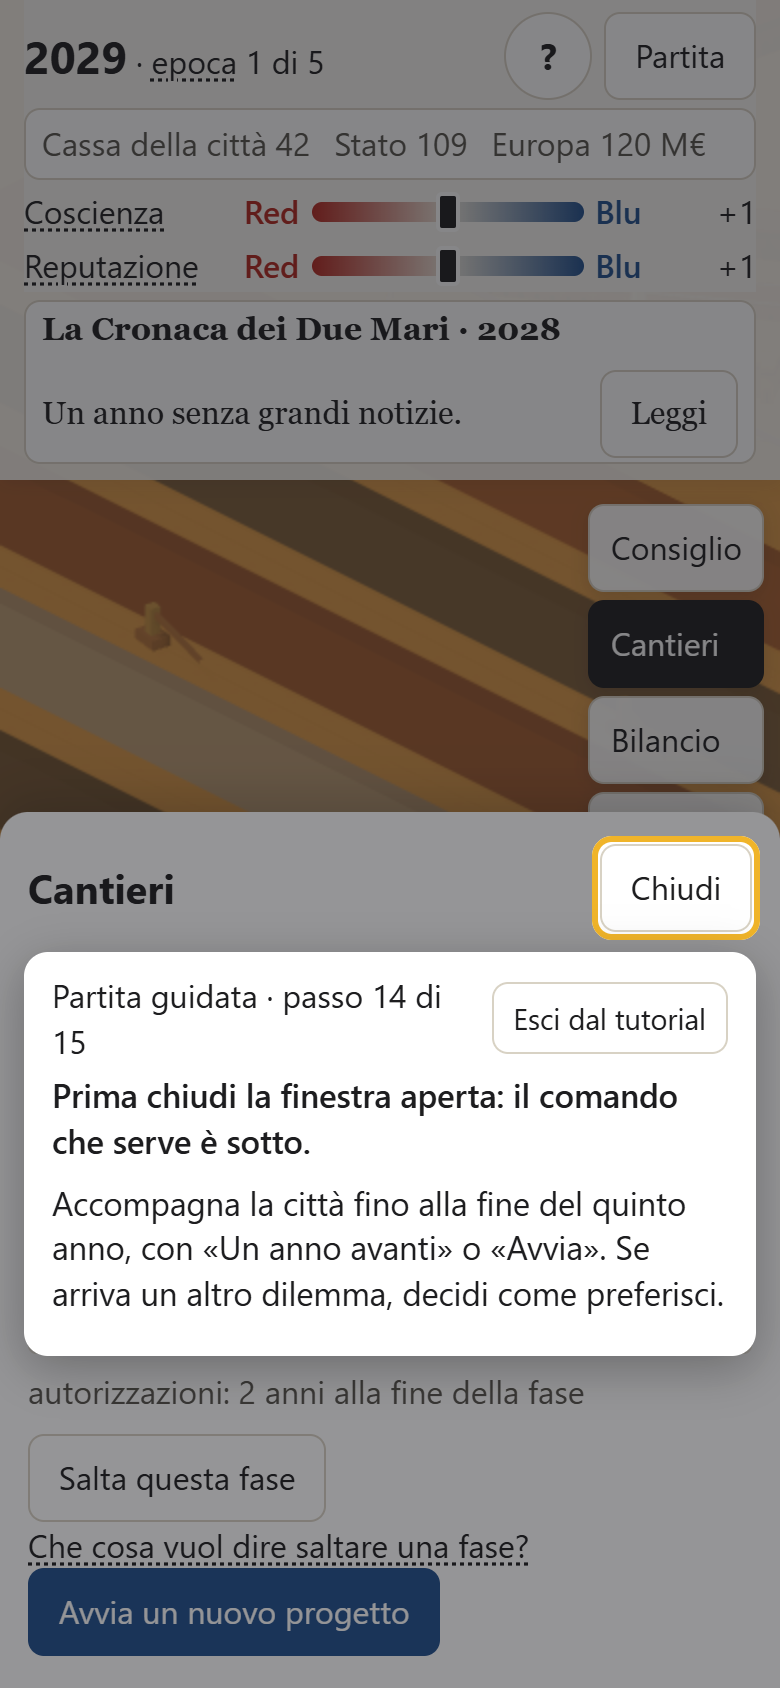
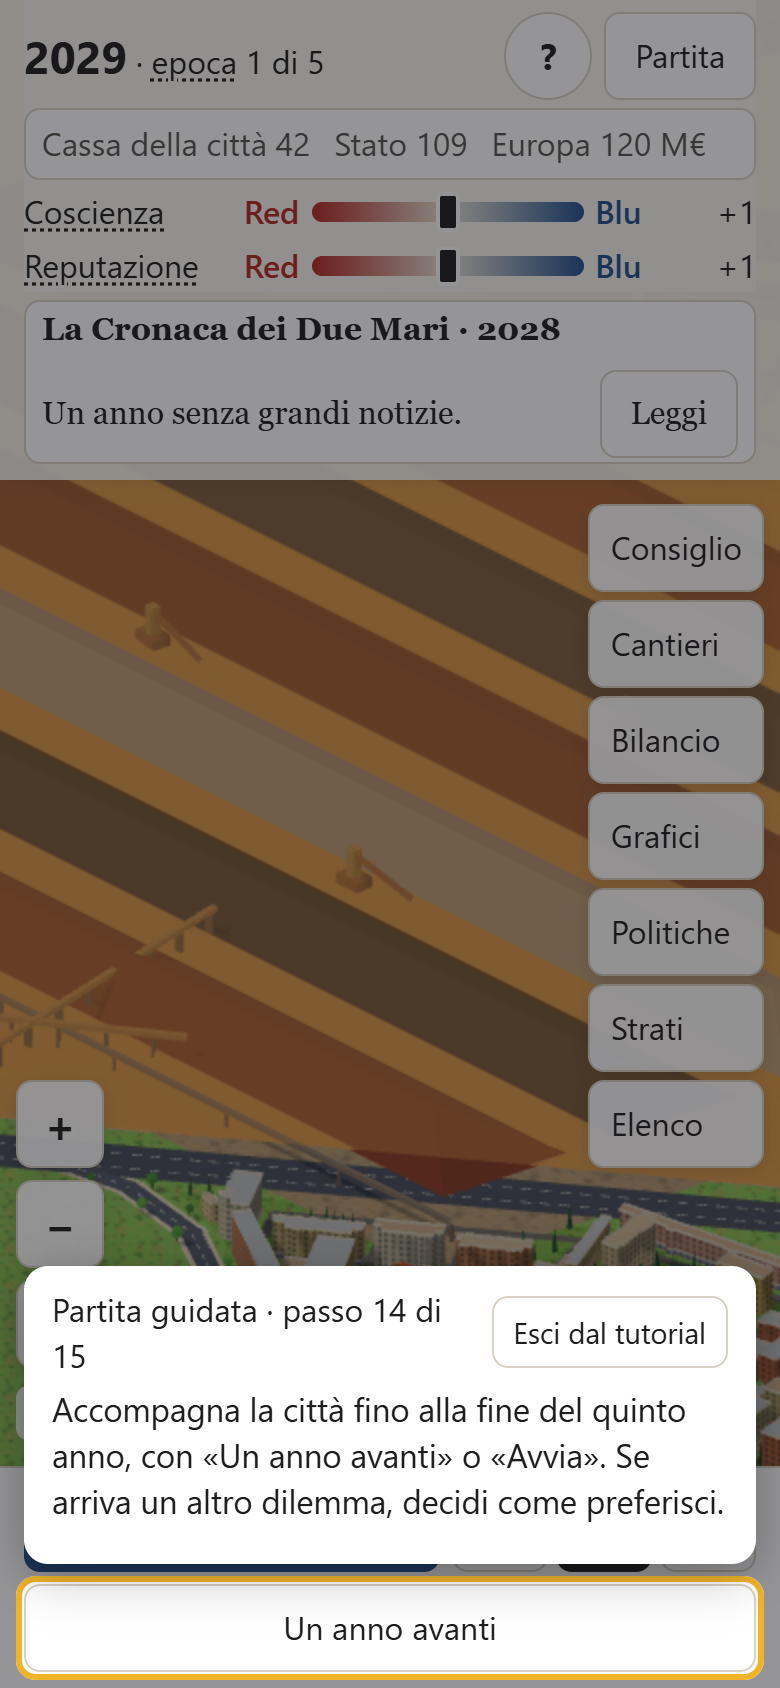
T16: passo 13 corretto da Michele, avanza solo chiudendo la finestra «Cantieri»
Attesa «pannello-visto»: con la finestra aperta l'evidenza passa su «Chiudi», il
fumetto aggiunge «Quando hai visto, chiudi la finestra.» e sta fuori dalla
finestra, senza coprire le fasi. Al passo 14 la finestra è già chiusa. Prova
unitaria e controlli nel browser; schermate 13, 13b e 14 rifatte.

diff --git a/apps/game/src/tutorial.tsx b/apps/game/src/tutorial.tsx
@@ -74,6 +74,8 @@ export interface Contesto {
   tip?: string | null;
   /** I termini di cui, durante questo passo, si è aperta la spiegazione. */
   tipVisti?: ReadonlySet<string>;
+  /** Le finestre (pannelli) aperte durante questo passo. */
+  pannelliVisti?: ReadonlySet<string>;
 }
 
 /** Il comando con questo data-testid, se c'è nella pagina. */
@@ -105,6 +107,9 @@ export function fatto(passo: Passo, c: Contesto): boolean {
     case 'spiegazione-letta':
       // Aperta e poi chiusa con «Ok»: così ai passi dopo la spiegazione non resta sullo schermo.
       return (c.tipVisti?.has(a.termine) ?? false) && (c.tip ?? null) === null;
+    case 'pannello-visto':
+      // Aperta e poi chiusa, come il Consiglio al passo 4: il giocatore guarda la finestra quanto vuole.
+      return (c.pannelliVisti?.has(a.pannello) ?? false) && c.panel === null;
     case 'fine':
       return false;
   }
@@ -169,6 +174,14 @@ export function SceltaPartita({ onScegli }: { onScegli: (s: 'guidata' | 'libera'
 }
 
 const MARGINE = 10;
+
+/** È aperto ciò che il passo chiede di guardare e poi chiudere (una spiegazione, una finestra)? */
+function chiusuraDelPasso(passo: Passo, c: Contesto): boolean {
+  const a = passo.attesa;
+  if (a.tipo === 'spiegazione-letta') return (c.tip ?? null) === a.termine;
+  if (a.tipo === 'pannello-visto') return c.panel === a.pannello;
+  return false;
+}
 /** Pulsanti di chiusura: se il passo deve evidenziare uno di questi al posto del suo comando, lo dice. */
 const CHIUSURE = new Set(['finestra-chiudi', 'spiegazione-chiudi', 'continua']);
 
@@ -178,16 +191,17 @@ export function Tutorial({ indice, contesto, onAvanti, onEsci, onFine }: { indic
   const ultimo = indice === tutorial.passi.length - 1;
   const fumetto = useRef<HTMLDivElement>(null);
   const [rect, setRect] = useState<{ x: number; y: number; w: number; h: number; testid: string } | null>(null);
-  const [pos, setPos] = useState<{ top: number; maxHeight: number } | null>(null);
+  const [pos, setPos] = useState<{ top: number; maxHeight: number; left?: number; width?: number } | null>(null);
   /** Posto per il fumetto dentro una finestra (il dilemma): lì il fumetto scorre con il contenuto e non copre nulla. */
   const [spazio, setSpazio] = useState<HTMLElement | null>(null);
   const tip = useTipAperto();
   // Le spiegazioni aperte durante questo passo (si ricomincia a ogni passo).
-  const visti = useRef<{ indice: number; termini: Set<string> }>({ indice, termini: new Set() });
-  if (visti.current.indice !== indice) visti.current = { indice, termini: new Set() };
+  const visti = useRef<{ indice: number; termini: Set<string>; pannelli: Set<string> }>({ indice, termini: new Set(), pannelli: new Set() });
+  if (visti.current.indice !== indice) visti.current = { indice, termini: new Set(), pannelli: new Set() };
   if (tip !== null) visti.current.termini.add(tip);
+  if (contesto.panel !== null) visti.current.pannelli.add(contesto.panel);
   const contestoRef = useRef<Contesto>(contesto);
-  contestoRef.current = { ...contesto, tip, tipVisti: visti.current.termini };
+  contestoRef.current = { ...contesto, tip, tipVisti: visti.current.termini, pannelliVisti: visti.current.pannelli };
   const fuoco = useRef<HTMLElement | null>(null);
 
   // Il passo va avanti quando l'azione è fatta: si controlla a ogni cambio e, per ciò che sta solo nella pagina, ogni 300 ms.
@@ -209,16 +223,34 @@ export function Tutorial({ indice, contesto, onAvanti, onEsci, onFine }: { indic
     const posto = b.el.closest('[data-testid="dilemma"]')?.querySelector<HTMLElement>('[data-testid="spazio-tutorial"]') ?? null;
     setSpazio(posto);
     const r = b.el.getBoundingClientRect();
+    const poni = (p: { top: number; maxHeight: number; left?: number; width?: number }) =>
+      setPos((prima) => (prima !== null && Math.abs(prima.top - p.top) < 0.5 && Math.abs(prima.maxHeight - p.maxHeight) < 0.5 && prima.left === p.left && prima.width === p.width ? prima : p));
     setRect((prima) => (prima !== null && prima.testid === b.testid && Math.abs(prima.x - r.left) < 0.5 && Math.abs(prima.y - r.top) < 0.5 && Math.abs(prima.w - r.width) < 0.5 && Math.abs(prima.h - r.height) < 0.5 ? prima : { x: r.left, y: r.top, w: r.width, h: r.height, testid: b.testid }));
+    const pieno = fumetto.current?.scrollHeight ?? 120;
+    // La finestra da guardare (passo «pannello-visto», finestra aperta): il fumetto sta fuori, sopra o sotto, o accanto sullo schermo largo.
+    const finestra = passo.attesa.tipo === 'pannello-visto' && chiusuraDelPasso(passo, contestoRef.current) ? b.el.closest<HTMLElement>('.map-window') : null;
+    if (finestra !== null) {
+      const w = finestra.getBoundingClientRect();
+      const libSopra = w.top - MARGINE * 2;
+      const libSotto = window.innerHeight - w.bottom - MARGINE * 2;
+      const libSinistra = w.left - MARGINE * 2;
+      if (pieno > Math.max(libSopra, libSotto) && libSinistra >= 280) {
+        const top = Math.max(MARGINE, w.top);
+        poni({ top, maxHeight: window.innerHeight - top - MARGINE, left: MARGINE, width: Math.min(440, libSinistra) });
+      } else if (libSopra >= libSotto) {
+        const alto = Math.min(pieno, libSopra);
+        poni({ top: Math.max(MARGINE, w.top - MARGINE - alto), maxHeight: libSopra });
+      } else poni({ top: w.bottom + MARGINE, maxHeight: libSotto });
+    } else {
     const sopra = r.top - MARGINE * 2;
     const sotto = window.innerHeight - r.bottom - MARGINE * 2;
-    const pieno = fumetto.current?.scrollHeight ?? 120;
     // Sotto il comando se il fumetto ci sta per intero (di solito lì c'è spazio libero), poi sopra, poi dalla parte più larga.
     const giu = pieno <= sotto || (pieno > sopra && sotto >= sopra);
     const alto = Math.min(pieno, giu ? sotto : sopra);
     const top = giu ? r.bottom + MARGINE : Math.max(MARGINE, r.top - MARGINE - alto);
     const massimo = giu ? sotto : sopra;
-    setPos((prima) => (prima !== null && Math.abs(prima.top - top) < 0.5 && Math.abs(prima.maxHeight - massimo) < 0.5 ? prima : { top, maxHeight: massimo }));
+    poni({ top, maxHeight: massimo });
+    }
     // Il fuoco da tastiera va sul comando, una volta per comando.
     if (fuoco.current !== b.el) {
       fuoco.current = b.el;
@@ -240,6 +272,8 @@ export function Tutorial({ indice, contesto, onAvanti, onEsci, onFine }: { indic
     };
   }, [controlla, misura]);
 
+  // Il comando evidenziato è la chiusura di ciò che il passo chiede di guardare: il fumetto dice di chiudere.
+  const chiude = rect !== null && chiusuraDelPasso(passo, contestoRef.current) && rect.testid === (passo.attesa.tipo === 'spiegazione-letta' ? 'spiegazione-chiudi' : 'finestra-chiudi');
   const contenuto = (
     <>
       <div className="tutorial-testa">
@@ -250,13 +284,13 @@ export function Tutorial({ indice, contesto, onAvanti, onEsci, onFine }: { indic
           Esci dal tutorial
         </button>
       </div>
-      {rect !== null && CHIUSURE.has(rect.testid) && passo.evidenzia[0] !== rect.testid && (
+      {rect !== null && CHIUSURE.has(rect.testid) && !chiude && (passo.evidenzia[0] !== rect.testid || 'poi' in passo.attesa) && (
         <p className="tutorial-testo tutorial-prima" data-testid="tutorial-prima-chiudi">
           {tutorial.primaChiudi}
         </p>
       )}
       <p className="tutorial-testo">{passo.testo}</p>
-      {passo.attesa.tipo === 'spiegazione-letta' && rect?.testid === 'spiegazione-chiudi' && (
+      {chiude && 'poi' in passo.attesa && (
         <p className="tutorial-testo" data-testid="tutorial-poi">
           {passo.attesa.poi}
         </p>
@@ -299,7 +333,7 @@ export function Tutorial({ indice, contesto, onAvanti, onEsci, onFine }: { indic
             spazio,
           )
         : (
-          <div {...attributi} className="tutorial-fumetto" style={pos === null ? { bottom: MARGINE } : { top: pos.top, maxHeight: pos.maxHeight }}>
+          <div {...attributi} className="tutorial-fumetto" style={pos === null ? { bottom: MARGINE } : pos.left !== undefined ? { top: pos.top, maxHeight: pos.maxHeight, left: pos.left, right: 'auto', width: pos.width, margin: 0 } : { top: pos.top, maxHeight: pos.maxHeight }}>
             {contenuto}
           </div>
         )}

diff --git a/apps/game/scripts/verifica.ts b/apps/game/scripts/verifica.ts
@@ -1442,10 +1442,12 @@ async function tutorialDaCopione(browser: Browser, width: number, mappa: '3d' | 
       visti.push(p.id);
       // Dopo il passo «coscienza» la sua spiegazione è chiusa: non resta sopra i comandi dei passi dopo.
       if (visti.includes('coscienza') && p.id !== 'coscienza' && (await visible(page, 'spiegazione'))) fail(`${dove}, passo «${p.id}»: la spiegazione della Coscienza è rimasta aperta`);
+      // Al passo 14 la finestra «Cantieri» è già chiusa: niente «Prima chiudi la finestra aperta».
+      if (p.id === 'quinto-anno' && ((await visible(page, 'finestra-cantieri')) || (await visible(page, 'tutorial-prima-chiudi')))) fail(`${dove}, passo «quinto-anno»: la finestra «Cantieri» è ancora aperta e il fumetto chiede di chiuderla`);
       await controllaPasso(page, `${dove}, passo «${p.id}»`, p.bersaglio);
       if (width === 390 && mappa === '3d') {
         await page.waitForTimeout(500);
-        await page.screenshot({ path: join(shotsDir, `t16-passo-${String(visti.filter((x) => x !== 'coscienza-ok').length).padStart(2, '0')}-${p.id}-390.png`) });
+        await page.screenshot({ path: join(shotsDir, `t16-passo-${String(visti.filter((x) => x !== 'coscienza-ok' && x !== 'cantieri-chiudi').length).padStart(2, '0')}-${p.id}-390.png`) });
       }
     }
     else if (p.id === 'coscienza' && p.bersaglio === 'spiegazione-chiudi' && !visti.includes('coscienza-ok')) {
@@ -1456,6 +1458,30 @@ async function tutorialDaCopione(browser: Browser, width: number, mappa: '3d' | 
       if (width === 390 && mappa === '3d') {
         await page.waitForTimeout(500);
         await page.screenshot({ path: join(shotsDir, 't16-passo-12b-coscienza-ok-390.png') });
+      }
+    }
+    else if (p.id === 'cantieri' && p.bersaglio === 'finestra-chiudi' && !visti.includes('cantieri-chiudi')) {
+      // Finestra «Cantieri» aperta: l'evidenza passa su «Chiudi», il fumetto dice di chiudere e non copre le fasi.
+      visti.push('cantieri-chiudi');
+      await page.waitForTimeout(400);
+      await controllaPasso(page, `${dove}, passo «cantieri» con la finestra aperta`, p.bersaglio);
+      if (!(await visible(page, 'finestra-cantieri'))) fail(`${dove}, passo «cantieri»: «Chiudi» è evidenziato ma la finestra «Cantieri» non è aperta`);
+      if (!(await visible(page, 'tutorial-poi'))) fail(`${dove}, passo «cantieri»: con la finestra aperta il fumetto non dice di chiuderla`);
+      if (await visible(page, 'tutorial-prima-chiudi')) fail(`${dove}, passo «cantieri»: con la finestra «Cantieri» aperta il fumetto dice «Prima chiudi la finestra aperta»`);
+      const copre = await page.evaluate(() => {
+        const f = document.querySelector('[data-testid="tutorial"]')!.getBoundingClientRect();
+        const fasi = [...document.querySelectorAll('[data-testid="finestra-cantieri"] [data-testid="cantiere"] .phases')];
+        if (fasi.length === 0) return 'nessuna';
+        return fasi.some((el) => {
+          const q = el.getBoundingClientRect();
+          return !(q.right <= f.left || q.left >= f.right || q.bottom <= f.top || q.top >= f.bottom);
+        }) ? 'si' : 'no';
+      });
+      if (copre === 'nessuna') fail(`${dove}, passo «cantieri»: nella finestra non c'è l'elenco delle fasi`);
+      if (copre === 'si') fail(`${dove}, passo «cantieri»: il fumetto copre l'elenco delle fasi del cantiere`);
+      if (width === 390 && mappa === '3d') {
+        await page.waitForTimeout(500);
+        await page.screenshot({ path: join(shotsDir, 't16-passo-13b-cantieri-chiudi-390.png') });
       }
     }
     if (process.env['T16LOG'] === '1') console.log(`LOG ${width} ${mappa} passo ${p.id} bersaglio ${p.bersaglio}`);
@@ -1477,9 +1503,10 @@ async function tutorialDaCopione(browser: Browser, width: number, mappa: '3d' | 
   const attesi = loadContent().tutorial.passi.map((x) => x.id).filter((id) => !(mappa === 'schematica' && id === 'strato'));
   const mancanti = attesi.filter((id) => !visti.includes(id));
   if (!visti.includes('coscienza-ok')) fail(`${dove}: al passo «coscienza» la spiegazione aperta non porta l'evidenza su «Ok»`);
-  const ordine = visti.filter((id) => id !== 'coscienza-ok');
+  if (!visti.includes('cantieri-chiudi')) fail(`${dove}: al passo «cantieri» la finestra aperta non porta l'evidenza su «Chiudi»`);
+  const ordine = visti.filter((id) => id !== 'coscienza-ok' && id !== 'cantieri-chiudi');
   if (mancanti.length > 0 || ordine.join() !== attesi.join()) fail(`${dove}: passi non visti o fuori ordine (mancano ${mancanti.join(', ') || 'nessuno'}; visti ${visti.join(', ')})`);
-  misura(`${dove}: tutorial completato, ${ordine.length} passi (${ordine.join(' → ')}; a «coscienza» l'evidenza passa su «Ok»), ${azioni} azioni, partita al ${anno}`);
+  misura(`${dove}: tutorial completato, ${ordine.length} passi (${ordine.join(' → ')}; a «coscienza» l'evidenza passa su «Ok», a «cantieri» su «Chiudi»), ${azioni} azioni, partita al ${anno}`);
   await close();
 }
 

diff --git a/apps/game/src/tutorial.test.ts b/apps/game/src/tutorial.test.ts
@@ -127,6 +127,12 @@ describe('passi della partita guidata', () => {
     expect(fatto(p('coscienza'), { ...inizio, tip: null, tipVisti: new Set() }), 'mai aperta').toBe(false);
     expect(fatto(p('coscienza'), { ...inizio, tip: null, tipVisti: new Set(['reputazione']) }), "aperta un'altra spiegazione").toBe(false);
     expect(fatto(p('coscienza'), { ...inizio, tip: null, tipVisti: visti }), 'aperta e chiusa').toBe(true);
+    // La finestra «Cantieri»: il passo va avanti solo quando è stata aperta e poi chiusa (come il Consiglio al passo 4).
+    const cantieri = new Set(['cantieri']);
+    expect(fatto(p('cantieri'), { ...inizio, panel: 'cantieri', pannelliVisti: cantieri }), 'finestra «Cantieri» ancora aperta').toBe(false);
+    expect(fatto(p('cantieri'), { ...inizio, panel: null, pannelliVisti: new Set() }), 'mai aperta').toBe(false);
+    expect(fatto(p('cantieri'), { ...inizio, panel: null, pannelliVisti: new Set(['bilancio']) }), 'aperta un\u2019altra finestra').toBe(false);
+    expect(fatto(p('cantieri'), { ...inizio, panel: null, pannelliVisti: cantieri }), 'aperta e chiusa').toBe(true);
   });
 
   it('l\'ultimo passo finisce solo con «Fine», e la partita guidata copre i primi cinque anni', () => {

diff --git a/packages/content/src/load.ts b/packages/content/src/load.ts
@@ -245,6 +245,8 @@ export type AttesaTutorial =
   | { tipo: 'anno'; anno: number }
   /** La spiegazione del termine si è aperta ed è stata chiusa con «Ok»; `poi` si legge mentre è aperta. */
   | { tipo: 'spiegazione-letta'; termine: string; poi: string }
+  /** La finestra si è aperta ed è stata chiusa; `poi` si legge mentre è aperta. */
+  | { tipo: 'pannello-visto'; pannello: string; poi: string }
   | { tipo: 'strato' | 'finestra-chiusa' | 'lotto-aperto' | 'cantiere-avviato' | 'cronaca' | 'dilemma-aperto' | 'dilemma-risposto' | 'fine' };
 
 /** Partita guidata (T16): seme, testi della scelta all'avvio, passi. Solo per l'interfaccia. */

diff --git a/docs/GRAFICA.md b/docs/GRAFICA.md
@@ -61,6 +61,11 @@ porto, della Città Vecchia e del Borgo.
   quando la spiegazione aperta toccando «Coscienza» viene chiusa con «Ok», così ai passi dopo
   non resta sopra i comandi. Mentre è aperta, l'evidenza passa su «Ok» e il fumetto aggiunge
   «Quando hai letto, tocca «Ok».» (`tutorial-poi`).
+- **Finestra «Cantieri»** (passo 13, correzione di Michele): il passo va avanti solo quando il
+  giocatore chiude la finestra, come il Consiglio al passo 4. Mentre è aperta l'evidenza passa
+  su «Chiudi», il fumetto aggiunge «Quando hai visto, chiudi la finestra.» e si mette fuori
+  dalla finestra (sopra o sotto; sullo schermo largo, se non ci sta, alla sua sinistra), così
+  le fasi del cantiere restano libere. Al passo 14 la finestra è già chiusa.
 - **Facoltativa:** «Esci dal tutorial» in ogni passo; da «?» si riprende dal passo in cui si
   era, anche dopo una ricarica (il punto è salvato nel browser, `taranto2127:tutorial`). Alla
   fine del quinto anno «Fine» chiude la guida e la partita continua.
@@ -76,9 +81,11 @@ porto, della Città Vecchia e del Borgo.
   partita da copione completa il tutorial a 360, 390 e 1280 px, con la città 3D e con la mappa
   schematica; a ogni passo il comando è sullo schermo, in cima, non coperto dal fumetto, con
   il fuoco se può riceverlo (non se è disabilitato), senza animazioni; il fumetto si vede per
-  intero e non copre le opzioni di un dilemma; dopo il passo «coscienza» la sua spiegazione è chiusa; alla fine la partita è al 2032. Uscita e ripresa
+  intero e non copre le opzioni di un dilemma; dopo il passo «coscienza» la sua spiegazione è chiusa; al passo «cantieri», con la finestra
+  aperta, il fumetto non copre le fasi e al passo 14 la finestra è chiusa; alla fine la partita è al 2032. Uscita e ripresa
   da «?», anche dopo una ricarica. Schermate di ogni passo a 390 px:
-  `docs/schermate/t16-passo-NN-<passo>-390.png`, la spiegazione aperta al passo 12 `t16-passo-12b-coscienza-ok-390.png`, e la scelta all'avvio
+  `docs/schermate/t16-passo-NN-<passo>-390.png`, la spiegazione aperta al passo 12 `t16-passo-12b-coscienza-ok-390.png`, la finestra «Cantieri»
+  aperta al passo 13 `t16-passo-13b-cantieri-chiudi-390.png`, e la scelta all'avvio
   `t16-scelta-390.png`.
 
 ## Tutta la mappa sul telefono (T12e)

diff --git a/docs/CONTENUTI.md b/docs/CONTENUTI.md
@@ -78,6 +78,7 @@ azioni al posto del giocatore (regola 1).
   | `anno` | la partita è arrivata alla fine dell'anno indicato (numero annotato) |
   | `cronaca` | la Cronaca è aperta |
   | `dilemma-aperto`, `dilemma-risposto` | un dilemma è arrivato, oppure ha avuto risposta |
+  | `pannello-visto` | la finestra indicata si è aperta ed è stata chiusa; mentre è aperta il fumetto aggiunge la frase `poi` e non copre la finestra |
   | `spiegazione-letta` | la spiegazione del termine indicato si è aperta ed è stata chiusa con «Ok»; mentre è aperta il fumetto aggiunge la frase `poi` |
   | `fine` | il giocatore tocca «Fine» |
 
